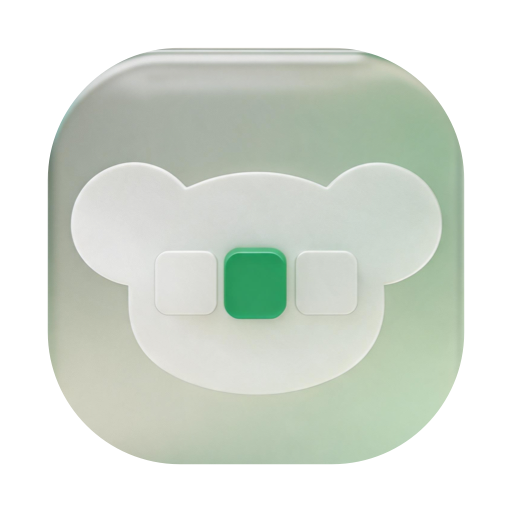
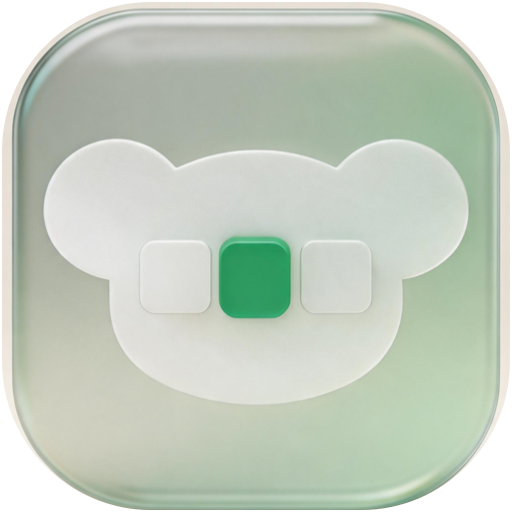
图标改满幅:82% 老网格 → 与 DockDoor/Ghostty 同口径
病例(用户实拍 Dock / 登录项列表):Glance 的图标比旁边几个**小一圈** —— 量出来是
`Tools/Iconify.swift` 里 `side = S * 0.82`(Apple 老网格:内容占画布 80.5%)。
macOS 26 的图标画法是**满幅**的,而且系统不给 macOS 应用图标加遮罩 ——
PNG 里留多少透明边,Dock / 列表里就小多少。改成 1.0。

改满幅当场暴露一个旧账(第一次改完顶部被切平 ✗):
`side0 = right - left` 是"用宽度当高"——宽度扫到 1457、高度扫到 1514(两轴"第一条边"的
阈值落点不同),方框比玻璃矮 57px,放大后玻璃顶边被切掉 ≈21px。
改成 **外接方**(取较长边 + 四边中心对齐)+ 内缩 0.8%,遮罩圆角 31.5% → 29%。

顺带删掉 82% 时代那段"边缘洁净度扫描"(结论 1.75% 是给旧落位量的;满幅后它会啃掉玻璃
自己的圆角边,所以内缩改成固定小量)。对照图:改前/改后 + 128px 并排(见提交说明的会话记录)。

证据:构建 ✅ · 产物 Glance.app 的 AppIcon.icns 已随重建更新

diff --git a/Tools/Iconify.swift b/Tools/Iconify.swift
@@ -48,59 +48,35 @@ let right  = outerEdge(W-7, W/2, step: 2) { ($0, yMid) }
 let top    = outerEdge(6, H/2, step: 2) { (xMid, $0) }
 let bottom = outerEdge(H-7, H/2, step: 2) { (xMid, $0) }
 // 用**宽度**同时当高:玻璃方块是近似正方形,而底边扫到的是投影会偏大(拉高会把图形拉长)
-let side0 = right-left
-// 再往里收 1.6%:从外向内扫到的第一条边是**外层泛光**的起点,不收就会带出一圈背景光 ✗
-let inset0 = CGFloat(side0) * 0.016
-// —— 边缘洁净度扫描:沿四条边取样,量"还像不像背景",取最小的刚好切干净的内缩量 ——
-// (背景是渐变的暖米色,所以判据是"与**该边中点处的背景色**的距离",不是与单一背景色比)
-func rgb(_ x: Int, _ y: Int) -> (Double, Double, Double) {
-    let x = min(max(x,0),W-1), y = min(max(y,0),H-1)
-    let i = ((H-1-y)*W + x)*4
-    return (Double(buf[i])/255, Double(buf[i+1])/255, Double(buf[i+2])/255)
-}
-func dist(_ a:(Double,Double,Double), _ b:(Double,Double,Double)) -> Double {
-    abs(a.0-b.0)+abs(a.1-b.1)+abs(a.2-b.2)
-}
-/// 采样某条边"往里 probe 像素"处有多少比例的样本仍然像背景
-func dirtiness(_ inset: CGFloat) -> (top: Double, bottom: Double, left: Double, right: Double) {
-    let r = CGRect(x: CGFloat(left)+inset, y: CGFloat(top)+inset,
-                   width: CGFloat(side0)-inset*2, height: CGFloat(side0)-inset*2)
-    let n = 24, probe = 3.0
-    func frac(_ pts: [(Double, Double)]) -> Double {
-        var bad = 0.0
-        for (x, y) in pts {
-            let p = rgb(Int(x), Int(y))
-            // 该点正外侧 20px 处当作"本地背景"
-            let bx = Int(x + (x < r.midX ? -20 : 20)), by = Int(y + (y < r.midY ? -20 : 20))
-            if dist(p, rgb(bx, by)) < 0.045 { bad += 1 }
-        }
-        return bad / Double(pts.count)
-    }
-    return (frac((0..<n).map { (r.minX + r.width * Double($0) / Double(n-1), r.minY + probe) }),
-            frac((0..<n).map { (r.minX + r.width * Double($0) / Double(n-1), r.maxY - probe) }),
-            frac((0..<n).map { (r.minX + probe, r.minY + r.height * Double($0) / Double(n-1)) }),
-            frac((0..<n).map { (r.maxX - probe, r.minY + r.height * Double($0) / Double(n-1)) }))
-}
-print("内缩%   上     下     左     右")
-// 判据只用**上边**:它偏绿,与暖米色背景差得开,指标可信;
-// 另外三条边的玻璃本身近似背景色,这个指标会误报,所以不参与决策,只打印看趋势。
-var chosenPct = 2.0
-for pct in stride(from: 1.0, through: 3.0, by: 0.25) {
-    let ins = CGFloat(side0) * CGFloat(pct) / 100
-    let d = dirtiness(ins)
-    print(String(format: " %.2f%%  %.2f   %.2f   %.2f   %.2f", pct, d.top, d.bottom, d.left, d.right))
-    if d.top == 0 { chosenPct = pct + 0.25; break }
-}
-let chosenInset = CGFloat(side0) * CGFloat(chosenPct) / 100
-print(String(format: "-> 采用内缩 %.2f%% (%.0fpx)", chosenPct, Double(chosenInset)))
-let box = CGRect(x: CGFloat(left) + chosenInset, y: CGFloat(top) + chosenInset,
-                 width: CGFloat(side0) - chosenInset*2, height: CGFloat(side0) - chosenInset*2)
+// 外接方:取**较长的那条边**,四边以中心对齐。
+//
+// 2026-09-15 病例(满幅改版第一次翻车):原来 `side0 = right-left`(宽度当高)——
+// 宽度扫到 1457、高度扫到 1514(两轴"第一条边"的阈值落点不同),方框比玻璃**矮 57px**;
+// 满幅放大后玻璃顶边被切掉 ≈21px,图标上面是**平的一条** ✗。
+// 取 max → 方框是玻璃的外接方(四边各多出一点背景,由下面的内缩收掉)。
+let side0 = max(right - left, bottom - top)
+let cx = CGFloat(left + right) / 2, cy = CGFloat(top + bottom) / 2
+// 内缩:从外向内扫到的第一条边是**外层泛光**的起点,不收就会带出一圈背景光 ✗。
+//
+// 量法说明:82% 时代这里跑过一段"沿四边取样比背景色"的扫描(结论:顶边要收到 1.75% 才干净)。
+// 满幅之后那条口径不适用 —— 1.75% 会**啃掉玻璃自己的圆角边**(顶部出现平边 ✗),
+// 所以改成固定 0.8%:外接方只多出一点点背景,收掉泛光即可,玻璃本体一像素不动。
+let sideC = CGFloat(side0)          // Int/CGFloat 混算会让类型检查器超时,先转干净
+let inset0 = sideC * 0.008
+let boxOriginX = cx - sideC / 2 + inset0
+let boxOriginY = cy - sideC / 2 + inset0
+let box = CGRect(x: boxOriginX, y: boxOriginY,
+                 width: sideC - inset0 * 2, height: sideC - inset0 * 2)
 print("画布 \(W)x\(H) | 玻璃方块 bbox: \(left),\(top) \(right-left)x\(bottom-top)")
 
-// 目标:1024 画布,方块占 82%(Apple 网格),圆角 23.5% 的边长
+// 目标:1024 画布,**方块满幅**(2026-09-15 改)
+//
+// 原来按 Apple 老网格只占 82%,结果在 Dock / 登录项列表里**比别人的图标小一圈**
+// (用户实拍:DockDoor / Ghostty 都是满幅)。macOS 26 的图标画法就是满幅 —— 系统不给
+// macOS 应用图标加遮罩,PNG 里留多少透明边就小多少。圆角由我们自己的遮罩给,与方块同Radius。
 func make(_ px: Int) -> CGImage {
     let S = CGFloat(px)
-    let side = S * 0.82
+    let side = S * 1.0
     let target = CGRect(x: (S-side)/2, y: (S-side)/2, width: side, height: side)
     let ctx = CGContext(data: nil, width: px, height: px, bitsPerComponent: 8, bytesPerRow: 0,
                         space: CGColorSpaceCreateDeviceRGB(),
@@ -108,7 +84,7 @@ func make(_ px: Int) -> CGImage {
     ctx.interpolationQuality = .high
     ctx.saveGState()
     let mask = CGPath(roundedRect: target.insetBy(dx: side*0.004, dy: side*0.004),
-                      cornerWidth: side*0.315, cornerHeight: side*0.315, transform: nil)
+                      cornerWidth: side*0.29, cornerHeight: side*0.29, transform: nil)
     ctx.addPath(mask); ctx.clip()
     // 源图按 box → target 缩放后绘制
     ctx.translateBy(x: 0, y: S); ctx.scaleBy(x: 1, y: -1)   // 目标翻转(左上原点)

diff --git a/Sources/Glance/Settings/SettingsControls.swift b/Sources/Glance/Settings/SettingsControls.swift
@@ -44,6 +44,12 @@ struct SettingsGroup<Content: View>: View {
 /// SwiftUI 里没有"我是最后一个子视图"的查询,与其搞一层序号推导,不如显式标注。
 struct SettingsRow<Trailing: View>: View {
     let title: String
+    /// 标题前挂一枚键位胶囊(如 ` 循环窗口)。
+    ///
+    /// 2026-09-15 病例:原来是裸字符「` 循环窗口」—— 用户实评"可能不知道 ` 是什么,
+    /// 还以为是手抖打多了字符"。裸反引号在正文里没有"这是个按键"的体量,
+    /// 包成胶囊后才和 `← →`、`Tab / ⇧Tab` 那些键位**同一种语言**。
+    var key: String? = nil
     /// 一句话说清"关掉会怎样",不解释实现。**别写 Markdown**:它是 `String`,
     /// `Text(_: some StringProtocol)` 不解析,`**加粗**` 会把星号原样印在纸上。
     var desc: String? = nil
@@ -54,9 +60,12 @@ struct SettingsRow<Trailing: View>: View {
         VStack(spacing: 0) {
             HStack(alignment: .center, spacing: SettingsMetrics.rowGap) {
                 VStack(alignment: .leading, spacing: 4) {
-                    Text(title)
-                        .font(SettingsFont.rowTitle)
-                        .foregroundStyle(SettingsTheme.ink)
+                    HStack(spacing: 7) {
+                        if let key { KeyChip(text: key) }
+                        Text(title)
+                            .font(SettingsFont.rowTitle)
+                            .foregroundStyle(SettingsTheme.ink)
+                    }
                     if let desc {
                         Text(desc)
                             .font(SettingsFont.rowDesc)

diff --git a/Sources/Glance/Settings/SettingsView.swift b/Sources/Glance/Settings/SettingsView.swift
@@ -223,7 +223,7 @@ struct ShortcutPane: View {
                 }
             }
             SettingsGroup(label: "导航") {
-                SettingsRow(title: "` 循环窗口", desc: "仅在面板打开时生效。") {
+                SettingsRow(title: "循环窗口", key: "`", desc: "仅在面板打开时生效。") {
                     BeamSwitch(isOn: $graveCyclesWindows)
                 }
                 SettingsRow(title: "循环切换") { KeyChip(text: "Tab / ⇧ Tab") }
